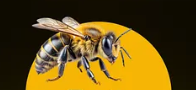
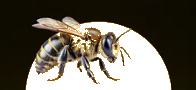
Update shop URL to root and remove yellow background from bee image

Changed region(s): [[0.1224, 0.2444, 0.8878, 1.0], [0.2755, 0.3556, 0.3061, 0.4], [0.4286, 0.5556, 0.4592, 0.5778]]

diff --git a/src/app/remedy/[id]/page.tsx b/src/app/remedy/[id]/page.tsx
@@ -7,7 +7,7 @@ import * as motion from "framer-motion/client";
 // Helper to determine shop URL for each honey type
 function getShopUrl(): string {
   // All products now go to the main product list page
-  return "https://www.beecrafthoney.com/product/Honey/1/3/101";
+  return "https://www.beecrafthoney.com/";
 }
 
 export default async function RemedyPage({ params }: { params: Promise<{ id: string }> }) {

diff --git a/public/sw.js b/public/sw.js
@@ -1,0 +1,1 @@
+if(!self.define){let e,s={};const n=(n,a)=>(n=new URL(n+".js",a).href,s[n]||new Promise(s=>{if("document"in self){const e=document.createElement("script");e.src=n,e.onload=s,document.head.appendChild(e)}else e=n,importScripts(n),s()}).then(()=>{let e=s[n];if(!e)throw new Error(`Module ${n} didn’t register its module`);return e}));self.define=(a,c)=>{const i=e||("document"in self?document.currentScript.src:"")||location.href;if(s[i])return;let t={};const r=e=>n(e,i),f={module:{uri:i},exports:t,require:r};s[i]=Promise.all(a.map(e=>f[e]||r(e))).then(e=>(c(...e),t))}}define(["./workbox-f1770938"],function(e){"use strict";importScripts(),self.skipWaiting(),e.clientsClaim(),e.precacheAndRoute([{url:"/_next/static/RNZc1lnbg8043OrXONRQj/_buildManifest.js",revision:"5cbc058a1759df76befb4e6a5d84403c"},{url:"/_next/static/RNZc1lnbg8043OrXONRQj/_ssgManifest.js",revision:"b6652df95db52feb4daf4eca35380933"},{url:"/_next/static/chunks/4bd1b696-215e5051988c3dde.js",revision:"215e5051988c3dde"},{url:"/_next/static/chunks/788-d81cb98bc1841a9a.js",revision:"d81cb98bc1841a9a"},{url:"/_next/static/chunks/894-8e41cb170f9d3e2e.js",revision:"8e41cb170f9d3e2e"},{url:"/_next/static/chunks/899.1813981119fa1f8a.js",revision:"1813981119fa1f8a"},{url:"/_next/static/chunks/928-9c0429a285964912.js",revision:"9c0429a285964912"},{url:"/_next/static/chunks/966.1775eb621d8d3e09.js",revision:"1775eb621d8d3e09"},{url:"/_next/static/chunks/app/_global-error/page-e08c31fb3ce1d928.js",revision:"e08c31fb3ce1d928"},{url:"/_next/static/chunks/app/_not-found/page-06d3d522e64b9877.js",revision:"06d3d522e64b9877"},{url:"/_next/static/chunks/app/admin/login/page-744cf5deb7114fc8.js",revision:"744cf5deb7114fc8"},{url:"/_next/static/chunks/app/admin/page-e08c31fb3ce1d928.js",revision:"e08c31fb3ce1d928"},{url:"/_next/static/chunks/app/api/auth/login/route-e08c31fb3ce1d928.js",revision:"e08c31fb3ce1d928"},{url:"/_next/static/chunks/app/api/search/route-e08c31fb3ce1d928.js",revision:"e08c31fb3ce1d928"},{url:"/_next/static/chunks/app/layout-63a9f2cb07cfd57d.js",revision:"63a9f2cb07cfd57d"},{url:"/_next/static/chunks/app/page-7fbc832518981789.js",revision:"7fbc832518981789"},{url:"/_next/static/chunks/app/remedy/%5Bid%5D/page-40c4d60f20435210.js",revision:"40c4d60f20435210"},{url:"/_next/static/chunks/app/search/page-883b3ef9d2b97517.js",revision:"883b3ef9d2b97517"},{url:"/_next/static/chunks/framework-93cda6578f6c76ec.js",revision:"93cda6578f6c76ec"},{url:"/_next/static/chunks/main-302328ff3ffb288f.js",revision:"302328ff3ffb288f"},{url:"/_next/static/chunks/main-app-19292692243a0bd3.js",revision:"19292692243a0bd3"},{url:"/_next/static/chunks/next/dist/client/components/builtin/app-error-e08c31fb3ce1d928.js",revision:"e08c31fb3ce1d928"},{url:"/_next/static/chunks/next/dist/client/components/builtin/forbidden-e08c31fb3ce1d928.js",revision:"e08c31fb3ce1d928"},{url:"/_next/static/chunks/next/dist/client/components/builtin/global-error-fe80cbb6ec6f658b.js",revision:"fe80cbb6ec6f658b"},{url:"/_next/static/chunks/next/dist/client/components/builtin/not-found-e08c31fb3ce1d928.js",revision:"e08c31fb3ce1d928"},{url:"/_next/static/chunks/next/dist/client/components/builtin/unauthorized-e08c31fb3ce1d928.js",revision:"e08c31fb3ce1d928"},{url:"/_next/static/chunks/polyfills-42372ed130431b0a.js",revision:"846118c33b2c0e922d7b3a7676f81f6f"},{url:"/_next/static/chunks/webpack-b03a520808f74277.js",revision:"b03a520808f74277"},{url:"/_next/static/css/b70add2aad08c682.css",revision:"b70add2aad08c682"},{url:"/_next/static/media/19cfc7226ec3afaa-s.woff2",revision:"9dda5cfc9a46f256d0e131bb535e46f8"},{url:"/_next/static/media/21350d82a1f187e9-s.woff2",revision:"4e2553027f1d60eff32898367dd4d541"},{url:"/_next/static/media/28a2004cf8372660-s.woff2",revision:"a81e6c6c3493caf3463c36f633996e92"},{url:"/_next/static/media/47f136985ef5b5cb-s.woff2",revision:"62f762afb90d7743f6916ea0cce473af"},{url:"/_next/static/media/4ead58c4dcc3f285-s.woff2",revision:"774586d4bcb09cb42f38fc490d25b01b"},{url:"/_next/static/media/8e9860b6e62d6359-s.woff2",revision:"01ba6c2a184b8cba08b0d57167664d75"},{url:"/_next/static/media/ba9851c3c22cd980-s.woff2",revision:"9e494903d6b0ffec1a1e14d34427d44d"},{url:"/_next/static/media/c5fe6dc8356a8c31-s.woff2",revision:"027a89e9ab733a145db70f09b8a18b42"},{url:"/_next/static/media/df0a9ae256c0569c-s.woff2",revision:"d54db44de5ccb18886ece2fda72bdfe0"},{url:"/_next/static/media/e4af272ccee01ff0-s.p.woff2",revision:"65850a373e258f1c897a2b3d75eb74de"},{url:"/_next/static/media/eaead17c7dbfcd5d-s.p.woff2",revision:"6da252de0cbc8a69b5d5c2e0e3f67722"},{url:"/file.svg",revision:"d09f95206c3fa0bb9bd9fefabfd0ea71"},{url:"/globe.svg",revision:"2aaafa6a49b6563925fe440891e32717"},{url:"/honey_bg.png",revision:"646a70df491a2b8ff1fb2854f14474a8"},{url:"/honey_texture.png",revision:"f7d73cebdb70302ac6e4c39ac8e13749"},{url:"/icons/icon_white_192.png",revision:"4c3e1328bc88894e517a1297b9cb9f62"},{url:"/icons/icon_white_512.png",revision:"b48e6dd88f88faa7ecb37c54551aeb49"},{url:"/images/bee.png",revision:"cd77bab4f118b51677941d0fda7aaee8"},{url:"/images/bg_honey_museum.png",revision:"578b3f1601eba7e99e5838f5691c8553"},{url:"/images/honey_bottle_8k.png",revision:"83fc2273892b97b9e302dac6db1a15d8"},{url:"/images/logo_beecraft_white.png",revision:"eeb4c645fb1eb6eefb14d1cadcf7dc71"},{url:"/manifest.json",revision:"3f010b60184f8c40451a900a3f05ed9e"},{url:"/next.svg",revision:"8e061864f388b47f33a1c3780831193e"},{url:"/vercel.svg",revision:"c0af2f507b369b085b35ef4bbe3bcf1e"},{url:"/window.svg",revision:"a2760511c65806022ad20adf74370ff3"}],{ignoreURLParametersMatching:[/^utm_/,/^fbclid$/]}),e.cleanupOutdatedCaches(),e.registerRoute("/",new e.NetworkFirst({cacheName:"start-url",plugins:[{cacheWillUpdate:async({response:e})=>e&&"opaqueredirect"===e.type?new Response(e.body,{status:200,statusText:"OK",headers:e.headers}):e}]}),"GET"),e.registerRoute(/^https:\/\/fonts\.(?:gstatic)\.com\/.*/i,new e.CacheFirst({cacheName:"google-fonts-webfonts",plugins:[new e.ExpirationPlugin({maxEntries:4,maxAgeSeconds:31536e3})]}),"GET"),e.registerRoute(/^https:\/\/fonts\.(?:googleapis)\.com\/.*/i,new e.StaleWhileRevalidate({cacheName:"google-fonts-stylesheets",plugins:[new e.ExpirationPlugin({maxEntries:4,maxAgeSeconds:604800})]}),"GET"),e.registerRoute(/\.(?:eot|otf|ttc|ttf|woff|woff2|font.css)$/i,new e.StaleWhileRevalidate({cacheName:"static-font-assets",plugins:[new e.ExpirationPlugin({maxEntries:4,maxAgeSeconds:604800})]}),"GET"),e.registerRoute(/\.(?:jpg|jpeg|gif|png|svg|ico|webp)$/i,new e.StaleWhileRevalidate({cacheName:"static-image-assets",plugins:[new e.ExpirationPlugin({maxEntries:64,maxAgeSeconds:2592e3})]}),"GET"),e.registerRoute(/\/_next\/static.+\.js$/i,new e.CacheFirst({cacheName:"next-static-js-assets",plugins:[new e.ExpirationPlugin({maxEntries:64,maxAgeSeconds:86400})]}),"GET"),e.registerRoute(/\/_next\/image\?url=.+$/i,new e.StaleWhileRevalidate({cacheName:"next-image",plugins:[new e.ExpirationPlugin({maxEntries:64,maxAgeSeconds:86400})]}),"GET"),e.registerRoute(/\.(?:mp3|wav|ogg)$/i,new e.CacheFirst({cacheName:"static-audio-assets",plugins:[new e.RangeRequestsPlugin,new e.ExpirationPlugin({maxEntries:32,maxAgeSeconds:86400})]}),"GET"),e.registerRoute(/\.(?:mp4|webm)$/i,new e.CacheFirst({cacheName:"static-video-assets",plugins:[new e.RangeRequestsPlugin,new e.ExpirationPlugin({maxEntries:32,maxAgeSeconds:86400})]}),"GET"),e.registerRoute(/\.(?:js)$/i,new e.StaleWhileRevalidate({cacheName:"static-js-assets",plugins:[new e.ExpirationPlugin({maxEntries:48,maxAgeSeconds:86400})]}),"GET"),e.registerRoute(/\.(?:css|less)$/i,new e.StaleWhileRevalidate({cacheName:"static-style-assets",plugins:[new e.ExpirationPlugin({maxEntries:32,maxAgeSeconds:86400})]}),"GET"),e.registerRoute(/\/_next\/data\/.+\/.+\.json$/i,new e.StaleWhileRevalidate({cacheName:"next-data",plugins:[new e.ExpirationPlugin({maxEntries:32,maxAgeSeconds:86400})]}),"GET"),e.registerRoute(/\.(?:json|xml|csv)$/i,new e.NetworkFirst({cacheName:"static-data-assets",plugins:[new e.ExpirationPlugin({maxEntries:32,maxAgeSeconds:86400})]}),"GET"),e.registerRoute(({sameOrigin:e,url:{pathname:s}})=>!(!e||s.startsWith("/api/auth/callback")||!s.startsWith("/api/")),new e.NetworkFirst({cacheName:"apis",networkTimeoutSeconds:10,plugins:[new e.ExpirationPlugin({maxEntries:16,maxAgeSeconds:86400})]}),"GET"),e.registerRoute(({request:e,url:{pathname:s},sameOrigin:n})=>"1"===e.headers.get("RSC")&&"1"===e.headers.get("Next-Router-Prefetch")&&n&&!s.startsWith("/api/"),new e.NetworkFirst({cacheName:"pages-rsc-prefetch",plugins:[new e.ExpirationPlugin({maxEntries:32,maxAgeSeconds:86400})]}),"GET"),e.registerRoute(({request:e,url:{pathname:s},sameOrigin:n})=>"1"===e.headers.get("RSC")&&n&&!s.startsWith("/api/"),new e.NetworkFirst({cacheName:"pages-rsc",plugins:[new e.ExpirationPlugin({maxEntries:32,maxAgeSeconds:86400})]}),"GET"),e.registerRoute(({url:{pathname:e},sameOrigin:s})=>s&&!e.startsWith("/api/"),new e.NetworkFirst({cacheName:"pages",plugins:[new e.ExpirationPlugin({maxEntries:32,maxAgeSeconds:86400})]}),"GET"),e.registerRoute(({sameOrigin:e})=>!e,new e.NetworkFirst({cacheName:"cross-origin",networkTimeoutSeconds:10,plugins:[new e.ExpirationPlugin({maxEntries:32,maxAgeSeconds:3600})]}),"GET")});

diff --git a/public/workbox-f1770938.js b/public/workbox-f1770938.js
@@ -1,0 +1,1 @@
+define(["exports"],function(t){"use strict";try{self["workbox:core:7.0.0"]&&_()}catch(t){}const e=(t,...e)=>{let s=t;return e.length>0&&(s+=` :: ${JSON.stringify(e)}`),s};class s extends Error{constructor(t,s){super(e(t,s)),this.name=t,this.details=s}}try{self["workbox:routing:7.0.0"]&&_()}catch(t){}const n=t=>t&&"object"==typeof t?t:{handle:t};class r{constructor(t,e,s="GET"){this.handler=n(e),this.match=t,this.method=s}setCatchHandler(t){this.catchHandler=n(t)}}class i extends r{constructor(t,e,s){super(({url:e})=>{const s=t.exec(e.href);if(s&&(e.origin===location.origin||0===s.index))return s.slice(1)},e,s)}}class a{constructor(){this.t=new Map,this.i=new Map}get routes(){return this.t}addFetchListener(){self.addEventListener("fetch",t=>{const{request:e}=t,s=this.handleRequest({request:e,event:t});s&&t.respondWith(s)})}addCacheListener(){self.addEventListener("message",t=>{if(t.data&&"CACHE_URLS"===t.data.type){const{payload:e}=t.data,s=Promise.all(e.urlsToCache.map(e=>{"string"==typeof e&&(e=[e]);const s=new Request(...e);return this.handleRequest({request:s,event:t})}));t.waitUntil(s),t.ports&&t.ports[0]&&s.then(()=>t.ports[0].postMessage(!0))}})}handleRequest({request:t,event:e}){const s=new URL(t.url,location.href);if(!s.protocol.startsWith("http"))return;const n=s.origin===location.origin,{params:r,route:i}=this.findMatchingRoute({event:e,request:t,sameOrigin:n,url:s});let a=i&&i.handler;const o=t.method;if(!a&&this.i.has(o)&&(a=this.i.get(o)),!a)return;let c;try{c=a.handle({url:s,request:t,event:e,params:r})}catch(t){c=Promise.reject(t)}const h=i&&i.catchHandler;return c instanceof Promise&&(this.o||h)&&(c=c.catch(async n=>{if(h)try{return await h.handle({url:s,request:t,event:e,params:r})}catch(t){t instanceof Error&&(n=t)}if(this.o)return this.o.handle({url:s,request:t,event:e});throw n})),c}findMatchingRoute({url:t,sameOrigin:e,request:s,event:n}){const r=this.t.get(s.method)||[];for(const i of r){let r;const a=i.match({url:t,sameOrigin:e,request:s,event:n});if(a)return r=a,(Array.isArray(r)&&0===r.length||a.constructor===Object&&0===Object.keys(a).length||"boolean"==typeof a)&&(r=void 0),{route:i,params:r}}return{}}setDefaultHandler(t,e="GET"){this.i.set(e,n(t))}setCatchHandler(t){this.o=n(t)}registerRoute(t){this.t.has(t.method)||this.t.set(t.method,[]),this.t.get(t.method).push(t)}unregisterRoute(t){if(!this.t.has(t.method))throw new s("unregister-route-but-not-found-with-method",{method:t.method});const e=this.t.get(t.method).indexOf(t);if(!(e>-1))throw new s("unregister-route-route-not-registered");this.t.get(t.method).splice(e,1)}}let o;const c=()=>(o||(o=new a,o.addFetchListener(),o.addCacheListener()),o);function h(t,e,n){let a;if("string"==typeof t){const s=new URL(t,location.href);a=new r(({url:t})=>t.href===s.href,e,n)}else if(t instanceof RegExp)a=new i(t,e,n);else if("function"==typeof t)a=new r(t,e,n);else{if(!(t instanceof r))throw new s("unsupported-route-type",{moduleName:"workbox-routing",funcName:"registerRoute",paramName:"capture"});a=t}return c().registerRoute(a),a}try{self["workbox:strategies:7.0.0"]&&_()}catch(t){}const u={cacheWillUpdate:async({response:t})=>200===t.status||0===t.status?t:null},l={googleAnalytics:"googleAnalytics",precache:"precache-v2",prefix:"workbox",runtime:"runtime",suffix:"undefined"!=typeof registration?registration.scope:""},f=t=>[l.prefix,t,l.suffix].filter(t=>t&&t.length>0).join("-"),w=t=>t||f(l.precache),d=t=>t||f(l.runtime);function p(t,e){const s=new URL(t);for(const t of e)s.searchParams.delete(t);return s.href}class y{constructor(){this.promise=new Promise((t,e)=>{this.resolve=t,this.reject=e})}}const g=new Set;function m(t){return"string"==typeof t?new Request(t):t}class v{constructor(t,e){this.h={},Object.assign(this,e),this.event=e.event,this.u=t,this.l=new y,this.p=[],this.m=[...t.plugins],this.v=new Map;for(const t of this.m)this.v.set(t,{});this.event.waitUntil(this.l.promise)}async fetch(t){const{event:e}=this;let n=m(t);if("navigate"===n.mode&&e instanceof FetchEvent&&e.preloadResponse){const t=await e.preloadResponse;if(t)return t}const r=this.hasCallback("fetchDidFail")?n.clone():null;try{for(const t of this.iterateCallbacks("requestWillFetch"))n=await t({request:n.clone(),event:e})}catch(t){if(t instanceof Error)throw new s("plugin-error-request-will-fetch",{thrownErrorMessage:t.message})}const i=n.clone();try{let t;t=await fetch(n,"navigate"===n.mode?void 0:this.u.fetchOptions);for(const s of this.iterateCallbacks("fetchDidSucceed"))t=await s({event:e,request:i,response:t});return t}catch(t){throw r&&await this.runCallbacks("fetchDidFail",{error:t,event:e,originalRequest:r.clone(),request:i.clone()}),t}}async fetchAndCachePut(t){const e=await this.fetch(t),s=e.clone();return this.waitUntil(this.cachePut(t,s)),e}async cacheMatch(t){const e=m(t);let s;const{cacheName:n,matchOptions:r}=this.u,i=await this.getCacheKey(e,"read"),a=Object.assign(Object.assign({},r),{cacheName:n});s=await caches.match(i,a);for(const t of this.iterateCallbacks("cachedResponseWillBeUsed"))s=await t({cacheName:n,matchOptions:r,cachedResponse:s,request:i,event:this.event})||void 0;return s}async cachePut(t,e){const n=m(t);var r;await(r=0,new Promise(t=>setTimeout(t,r)));const i=await this.getCacheKey(n,"write");if(!e)throw new s("cache-put-with-no-response",{url:(a=i.url,new URL(String(a),location.href).href.replace(new RegExp(`^${location.origin}`),""))});var a;const o=await this.R(e);if(!o)return!1;const{cacheName:c,matchOptions:h}=this.u,u=await self.caches.open(c),l=this.hasCallback("cacheDidUpdate"),f=l?await async function(t,e,s,n){const r=p(e.url,s);if(e.url===r)return t.match(e,n);const i=Object.assign(Object.assign({},n),{ignoreSearch:!0}),a=await t.keys(e,i);for(const e of a)if(r===p(e.url,s))return t.match(e,n)}(u,i.clone(),["__WB_REVISION__"],h):null;try{await u.put(i,l?o.clone():o)}catch(t){if(t instanceof Error)throw"QuotaExceededError"===t.name&&await async function(){for(const t of g)await t()}(),t}for(const t of this.iterateCallbacks("cacheDidUpdate"))await t({cacheName:c,oldResponse:f,newResponse:o.clone(),request:i,event:this.event});return!0}async getCacheKey(t,e){const s=`${t.url} | ${e}`;if(!this.h[s]){let n=t;for(const t of this.iterateCallbacks("cacheKeyWillBeUsed"))n=m(await t({mode:e,request:n,event:this.event,params:this.params}));this.h[s]=n}return this.h[s]}hasCallback(t){for(const e of this.u.plugins)if(t in e)return!0;return!1}async runCallbacks(t,e){for(const s of this.iterateCallbacks(t))await s(e)}*iterateCallbacks(t){for(const e of this.u.plugins)if("function"==typeof e[t]){const s=this.v.get(e),n=n=>{const r=Object.assign(Object.assign({},n),{state:s});return e[t](r)};yield n}}waitUntil(t){return this.p.push(t),t}async doneWaiting(){let t;for(;t=this.p.shift();)await t}destroy(){this.l.resolve(null)}async R(t){let e=t,s=!1;for(const t of this.iterateCallbacks("cacheWillUpdate"))if(e=await t({request:this.request,response:e,event:this.event})||void 0,s=!0,!e)break;return s||e&&200!==e.status&&(e=void 0),e}}class R{constructor(t={}){this.cacheName=d(t.cacheName),this.plugins=t.plugins||[],this.fetchOptions=t.fetchOptions,this.matchOptions=t.matchOptions}handle(t){const[e]=this.handleAll(t);return e}handleAll(t){t instanceof FetchEvent&&(t={event:t,request:t.request});const e=t.event,s="string"==typeof t.request?new Request(t.request):t.request,n="params"in t?t.params:void 0,r=new v(this,{event:e,request:s,params:n}),i=this.q(r,s,e);return[i,this.D(i,r,s,e)]}async q(t,e,n){let r;await t.runCallbacks("handlerWillStart",{event:n,request:e});try{if(r=await this.U(e,t),!r||"error"===r.type)throw new s("no-response",{url:e.url})}catch(s){if(s instanceof Error)for(const i of t.iterateCallbacks("handlerDidError"))if(r=await i({error:s,event:n,request:e}),r)break;if(!r)throw s}for(const s of t.iterateCallbacks("handlerWillRespond"))r=await s({event:n,request:e,response:r});return r}async D(t,e,s,n){let r,i;try{r=await t}catch(i){}try{await e.runCallbacks("handlerDidRespond",{event:n,request:s,response:r}),await e.doneWaiting()}catch(t){t instanceof Error&&(i=t)}if(await e.runCallbacks("handlerDidComplete",{event:n,request:s,response:r,error:i}),e.destroy(),i)throw i}}function b(t){t.then(()=>{})}function q(){return q=Object.assign?Object.assign.bind():function(t){for(var e=1;e<arguments.length;e++){var s=arguments[e];for(var n in s)({}).hasOwnProperty.call(s,n)&&(t[n]=s[n])}return t},q.apply(null,arguments)}let D,U;const x=new WeakMap,L=new WeakMap,I=new WeakMap,C=new WeakMap,E=new WeakMap;let N={get(t,e,s){if(t instanceof IDBTransaction){if("done"===e)return L.get(t);if("objectStoreNames"===e)return t.objectStoreNames||I.get(t);if("store"===e)return s.objectStoreNames[1]?void 0:s.objectStore(s.objectStoreNames[0])}return k(t[e])},set:(t,e,s)=>(t[e]=s,!0),has:(t,e)=>t instanceof IDBTransaction&&("done"===e||"store"===e)||e in t};function O(t){return t!==IDBDatabase.prototype.transaction||"objectStoreNames"in IDBTransaction.prototype?(U||(U=[IDBCursor.prototype.advance,IDBCursor.prototype.continue,IDBCursor.prototype.continuePrimaryKey])).includes(t)?function(...e){return t.apply(B(this),e),k(x.get(this))}:function(...e){return k(t.apply(B(this),e))}:function(e,...s){const n=t.call(B(this),e,...s);return I.set(n,e.sort?e.sort():[e]),k(n)}}function T(t){return"function"==typeof t?O(t):(t instanceof IDBTransaction&&function(t){if(L.has(t))return;const e=new Promise((e,s)=>{const n=()=>{t.removeEventListener("complete",r),t.removeEventListener("error",i),t.removeEventListener("abort",i)},r=()=>{e(),n()},i=()=>{s(t.error||new DOMException("AbortError","AbortError")),n()};t.addEventListener("complete",r),t.addEventListener("error",i),t.addEventListener("abort",i)});L.set(t,e)}(t),e=t,(D||(D=[IDBDatabase,IDBObjectStore,IDBIndex,IDBCursor,IDBTransaction])).some(t=>e instanceof t)?new Proxy(t,N):t);var e}function k(t){if(t instanceof IDBRequest)return function(t){const e=new Promise((e,s)=>{const n=()=>{t.removeEventListener("success",r),t.removeEventListener("error",i)},r=()=>{e(k(t.result)),n()},i=()=>{s(t.error),n()};t.addEventListener("success",r),t.addEventListener("error",i)});return e.then(e=>{e instanceof IDBCursor&&x.set(e,t)}).catch(()=>{}),E.set(e,t),e}(t);if(C.has(t))return C.get(t);const e=T(t);return e!==t&&(C.set(t,e),E.set(e,t)),e}const B=t=>E.get(t);const P=["get","getKey","getAll","getAllKeys","count"],M=["put","add","delete","clear"],W=new Map;function j(t,e){if(!(t instanceof IDBDatabase)||e in t||"string"!=typeof e)return;if(W.get(e))return W.get(e);const s=e.replace(/FromIndex$/,""),n=e!==s,r=M.includes(s);if(!(s in(n?IDBIndex:IDBObjectStore).prototype)||!r&&!P.includes(s))return;const i=async function(t,...e){const i=this.transaction(t,r?"readwrite":"readonly");let a=i.store;return n&&(a=a.index(e.shift())),(await Promise.all([a[s](...e),r&&i.done]))[0]};return W.set(e,i),i}N=(t=>q({},t,{get:(e,s,n)=>j(e,s)||t.get(e,s,n),has:(e,s)=>!!j(e,s)||t.has(e,s)}))(N);try{self["workbox:expiration:7.0.0"]&&_()}catch(t){}const S="cache-entries",K=t=>{const e=new URL(t,location.href);return e.hash="",e.href};class A{constructor(t){this._=null,this.L=t}I(t){const e=t.createObjectStore(S,{keyPath:"id"});e.createIndex("cacheName","cacheName",{unique:!1}),e.createIndex("timestamp","timestamp",{unique:!1})}C(t){this.I(t),this.L&&function(t,{blocked:e}={}){const s=indexedDB.deleteDatabase(t);e&&s.addEventListener("blocked",t=>e(t.oldVersion,t)),k(s).then(()=>{})}(this.L)}async setTimestamp(t,e){const s={url:t=K(t),timestamp:e,cacheName:this.L,id:this.N(t)},n=(await this.getDb()).transaction(S,"readwrite",{durability:"relaxed"});await n.store.put(s),await n.done}async getTimestamp(t){const e=await this.getDb(),s=await e.get(S,this.N(t));return null==s?void 0:s.timestamp}async expireEntries(t,e){const s=await this.getDb();let n=await s.transaction(S).store.index("timestamp").openCursor(null,"prev");const r=[];let i=0;for(;n;){const s=n.value;s.cacheName===this.L&&(t&&s.timestamp<t||e&&i>=e?r.push(n.value):i++),n=await n.continue()}const a=[];for(const t of r)await s.delete(S,t.id),a.push(t.url);return a}N(t){return this.L+"|"+K(t)}async getDb(){return this._||(this._=await function(t,e,{blocked:s,upgrade:n,blocking:r,terminated:i}={}){const a=indexedDB.open(t,e),o=k(a);return n&&a.addEventListener("upgradeneeded",t=>{n(k(a.result),t.oldVersion,t.newVersion,k(a.transaction),t)}),s&&a.addEventListener("blocked",t=>s(t.oldVersion,t.newVersion,t)),o.then(t=>{i&&t.addEventListener("close",()=>i()),r&&t.addEventListener("versionchange",t=>r(t.oldVersion,t.newVersion,t))}).catch(()=>{}),o}("workbox-expiration",1,{upgrade:this.C.bind(this)})),this._}}class F{constructor(t,e={}){this.O=!1,this.T=!1,this.k=e.maxEntries,this.B=e.maxAgeSeconds,this.P=e.matchOptions,this.L=t,this.M=new A(t)}async expireEntries(){if(this.O)return void(this.T=!0);this.O=!0;const t=this.B?Date.now()-1e3*this.B:0,e=await this.M.expireEntries(t,this.k),s=await self.caches.open(this.L);for(const t of e)await s.delete(t,this.P);this.O=!1,this.T&&(this.T=!1,b(this.expireEntries()))}async updateTimestamp(t){await this.M.setTimestamp(t,Date.now())}async isURLExpired(t){if(this.B){const e=await this.M.getTimestamp(t),s=Date.now()-1e3*this.B;return void 0===e||e<s}return!1}async delete(){this.T=!1,await this.M.expireEntries(1/0)}}try{self["workbox:range-requests:7.0.0"]&&_()}catch(t){}async function H(t,e){try{if(206===e.status)return e;const n=t.headers.get("range");if(!n)throw new s("no-range-header");const r=function(t){const e=t.trim().toLowerCase();if(!e.startsWith("bytes="))throw new s("unit-must-be-bytes",{normalizedRangeHeader:e});if(e.includes(","))throw new s("single-range-only",{normalizedRangeHeader:e});const n=/(\d*)-(\d*)/.exec(e);if(!n||!n[1]&&!n[2])throw new s("invalid-range-values",{normalizedRangeHeader:e});return{start:""===n[1]?void 0:Number(n[1]),end:""===n[2]?void 0:Number(n[2])}}(n),i=await e.blob(),a=function(t,e,n){const r=t.size;if(n&&n>r||e&&e<0)throw new s("range-not-satisfiable",{size:r,end:n,start:e});let i,a;return void 0!==e&&void 0!==n?(i=e,a=n+1):void 0!==e&&void 0===n?(i=e,a=r):void 0!==n&&void 0===e&&(i=r-n,a=r),{start:i,end:a}}(i,r.start,r.end),o=i.slice(a.start,a.end),c=o.size,h=new Response(o,{status:206,statusText:"Partial Content",headers:e.headers});return h.headers.set("Content-Length",String(c)),h.headers.set("Content-Range",`bytes ${a.start}-${a.end-1}/${i.size}`),h}catch(t){return new Response("",{status:416,statusText:"Range Not Satisfiable"})}}function $(t,e){const s=e();return t.waitUntil(s),s}try{self["workbox:precaching:7.0.0"]&&_()}catch(t){}function z(t){if(!t)throw new s("add-to-cache-list-unexpected-type",{entry:t});if("string"==typeof t){const e=new URL(t,location.href);return{cacheKey:e.href,url:e.href}}const{revision:e,url:n}=t;if(!n)throw new s("add-to-cache-list-unexpected-type",{entry:t});if(!e){const t=new URL(n,location.href);return{cacheKey:t.href,url:t.href}}const r=new URL(n,location.href),i=new URL(n,location.href);return r.searchParams.set("__WB_REVISION__",e),{cacheKey:r.href,url:i.href}}class G{constructor(){this.updatedURLs=[],this.notUpdatedURLs=[],this.handlerWillStart=async({request:t,state:e})=>{e&&(e.originalRequest=t)},this.cachedResponseWillBeUsed=async({event:t,state:e,cachedResponse:s})=>{if("install"===t.type&&e&&e.originalRequest&&e.originalRequest instanceof Request){const t=e.originalRequest.url;s?this.notUpdatedURLs.push(t):this.updatedURLs.push(t)}return s}}}class V{constructor({precacheController:t}){this.cacheKeyWillBeUsed=async({request:t,params:e})=>{const s=(null==e?void 0:e.cacheKey)||this.W.getCacheKeyForURL(t.url);return s?new Request(s,{headers:t.headers}):t},this.W=t}}let J,Q;async function X(t,e){let n=null;if(t.url){n=new URL(t.url).origin}if(n!==self.location.origin)throw new s("cross-origin-copy-response",{origin:n});const r=t.clone(),i={headers:new Headers(r.headers),status:r.status,statusText:r.statusText},a=e?e(i):i,o=function(){if(void 0===J){const t=new Response("");if("body"in t)try{new Response(t.body),J=!0}catch(t){J=!1}J=!1}return J}()?r.body:await r.blob();return new Response(o,a)}class Y extends R{constructor(t={}){t.cacheName=w(t.cacheName),super(t),this.j=!1!==t.fallbackToNetwork,this.plugins.push(Y.copyRedirectedCacheableResponsesPlugin)}async U(t,e){const s=await e.cacheMatch(t);return s||(e.event&&"install"===e.event.type?await this.S(t,e):await this.K(t,e))}async K(t,e){let n;const r=e.params||{};if(!this.j)throw new s("missing-precache-entry",{cacheName:this.cacheName,url:t.url});{const s=r.integrity,i=t.integrity,a=!i||i===s;n=await e.fetch(new Request(t,{integrity:"no-cors"!==t.mode?i||s:void 0})),s&&a&&"no-cors"!==t.mode&&(this.A(),await e.cachePut(t,n.clone()))}return n}async S(t,e){this.A();const n=await e.fetch(t);if(!await e.cachePut(t,n.clone()))throw new s("bad-precaching-response",{url:t.url,status:n.status});return n}A(){let t=null,e=0;for(const[s,n]of this.plugins.entries())n!==Y.copyRedirectedCacheableResponsesPlugin&&(n===Y.defaultPrecacheCacheabilityPlugin&&(t=s),n.cacheWillUpdate&&e++);0===e?this.plugins.push(Y.defaultPrecacheCacheabilityPlugin):e>1&&null!==t&&this.plugins.splice(t,1)}}Y.defaultPrecacheCacheabilityPlugin={cacheWillUpdate:async({response:t})=>!t||t.status>=400?null:t},Y.copyRedirectedCacheableResponsesPlugin={cacheWillUpdate:async({response:t})=>t.redirected?await X(t):t};class Z{constructor({cacheName:t,plugins:e=[],fallbackToNetwork:s=!0}={}){this.F=new Map,this.H=new Map,this.$=new Map,this.u=new Y({cacheName:w(t),plugins:[...e,new V({precacheController:this})],fallbackToNetwork:s}),this.install=this.install.bind(this),this.activate=this.activate.bind(this)}get strategy(){return this.u}precache(t){this.addToCacheList(t),this.G||(self.addEventListener("install",this.install),self.addEventListener("activate",this.activate),this.G=!0)}addToCacheList(t){const e=[];for(const n of t){"string"==typeof n?e.push(n):n&&void 0===n.revision&&e.push(n.url);const{cacheKey:t,url:r}=z(n),i="string"!=typeof n&&n.revision?"reload":"default";if(this.F.has(r)&&this.F.get(r)!==t)throw new s("add-to-cache-list-conflicting-entries",{firstEntry:this.F.get(r),secondEntry:t});if("string"!=typeof n&&n.integrity){if(this.$.has(t)&&this.$.get(t)!==n.integrity)throw new s("add-to-cache-list-conflicting-integrities",{url:r});this.$.set(t,n.integrity)}if(this.F.set(r,t),this.H.set(r,i),e.length>0){const t=`Workbox is precaching URLs without revision info: ${e.join(", ")}\nThis is generally NOT safe. Learn more at https://bit.ly/wb-precache`;console.warn(t)}}}install(t){return $(t,async()=>{const e=new G;this.strategy.plugins.push(e);for(const[e,s]of this.F){const n=this.$.get(s),r=this.H.get(e),i=new Request(e,{integrity:n,cache:r,credentials:"same-origin"});await Promise.all(this.strategy.handleAll({params:{cacheKey:s},request:i,event:t}))}const{updatedURLs:s,notUpdatedURLs:n}=e;return{updatedURLs:s,notUpdatedURLs:n}})}activate(t){return $(t,async()=>{const t=await self.caches.open(this.strategy.cacheName),e=await t.keys(),s=new Set(this.F.values()),n=[];for(const r of e)s.has(r.url)||(await t.delete(r),n.push(r.url));return{deletedURLs:n}})}getURLsToCacheKeys(){return this.F}getCachedURLs(){return[...this.F.keys()]}getCacheKeyForURL(t){const e=new URL(t,location.href);return this.F.get(e.href)}getIntegrityForCacheKey(t){return this.$.get(t)}async matchPrecache(t){const e=t instanceof Request?t.url:t,s=this.getCacheKeyForURL(e);if(s){return(await self.caches.open(this.strategy.cacheName)).match(s)}}createHandlerBoundToURL(t){const e=this.getCacheKeyForURL(t);if(!e)throw new s("non-precached-url",{url:t});return s=>(s.request=new Request(t),s.params=Object.assign({cacheKey:e},s.params),this.strategy.handle(s))}}const tt=()=>(Q||(Q=new Z),Q);class et extends r{constructor(t,e){super(({request:s})=>{const n=t.getURLsToCacheKeys();for(const r of function*(t,{ignoreURLParametersMatching:e=[/^utm_/,/^fbclid$/],directoryIndex:s="index.html",cleanURLs:n=!0,urlManipulation:r}={}){const i=new URL(t,location.href);i.hash="",yield i.href;const a=function(t,e=[]){for(const s of[...t.searchParams.keys()])e.some(t=>t.test(s))&&t.searchParams.delete(s);return t}(i,e);if(yield a.href,s&&a.pathname.endsWith("/")){const t=new URL(a.href);t.pathname+=s,yield t.href}if(n){const t=new URL(a.href);t.pathname+=".html",yield t.href}if(r){const t=r({url:i});for(const e of t)yield e.href}}(s.url,e)){const e=n.get(r);if(e){return{cacheKey:e,integrity:t.getIntegrityForCacheKey(e)}}}},t.strategy)}}t.CacheFirst=class extends R{async U(t,e){let n,r=await e.cacheMatch(t);if(!r)try{r=await e.fetchAndCachePut(t)}catch(t){t instanceof Error&&(n=t)}if(!r)throw new s("no-response",{url:t.url,error:n});return r}},t.ExpirationPlugin=class{constructor(t={}){this.cachedResponseWillBeUsed=async({event:t,request:e,cacheName:s,cachedResponse:n})=>{if(!n)return null;const r=this.V(n),i=this.J(s);b(i.expireEntries());const a=i.updateTimestamp(e.url);if(t)try{t.waitUntil(a)}catch(t){}return r?n:null},this.cacheDidUpdate=async({cacheName:t,request:e})=>{const s=this.J(t);await s.updateTimestamp(e.url),await s.expireEntries()},this.X=t,this.B=t.maxAgeSeconds,this.Y=new Map,t.purgeOnQuotaError&&function(t){g.add(t)}(()=>this.deleteCacheAndMetadata())}J(t){if(t===d())throw new s("expire-custom-caches-only");let e=this.Y.get(t);return e||(e=new F(t,this.X),this.Y.set(t,e)),e}V(t){if(!this.B)return!0;const e=this.Z(t);if(null===e)return!0;return e>=Date.now()-1e3*this.B}Z(t){if(!t.headers.has("date"))return null;const e=t.headers.get("date"),s=new Date(e).getTime();return isNaN(s)?null:s}async deleteCacheAndMetadata(){for(const[t,e]of this.Y)await self.caches.delete(t),await e.delete();this.Y=new Map}},t.NetworkFirst=class extends R{constructor(t={}){super(t),this.plugins.some(t=>"cacheWillUpdate"in t)||this.plugins.unshift(u),this.tt=t.networkTimeoutSeconds||0}async U(t,e){const n=[],r=[];let i;if(this.tt){const{id:s,promise:a}=this.et({request:t,logs:n,handler:e});i=s,r.push(a)}const a=this.st({timeoutId:i,request:t,logs:n,handler:e});r.push(a);const o=await e.waitUntil((async()=>await e.waitUntil(Promise.race(r))||await a)());if(!o)throw new s("no-response",{url:t.url});return o}et({request:t,logs:e,handler:s}){let n;return{promise:new Promise(e=>{n=setTimeout(async()=>{e(await s.cacheMatch(t))},1e3*this.tt)}),id:n}}async st({timeoutId:t,request:e,logs:s,handler:n}){let r,i;try{i=await n.fetchAndCachePut(e)}catch(t){t instanceof Error&&(r=t)}return t&&clearTimeout(t),!r&&i||(i=await n.cacheMatch(e)),i}},t.RangeRequestsPlugin=class{constructor(){this.cachedResponseWillBeUsed=async({request:t,cachedResponse:e})=>e&&t.headers.has("range")?await H(t,e):e}},t.StaleWhileRevalidate=class extends R{constructor(t={}){super(t),this.plugins.some(t=>"cacheWillUpdate"in t)||this.plugins.unshift(u)}async U(t,e){const n=e.fetchAndCachePut(t).catch(()=>{});e.waitUntil(n);let r,i=await e.cacheMatch(t);if(i);else try{i=await n}catch(t){t instanceof Error&&(r=t)}if(!i)throw new s("no-response",{url:t.url,error:r});return i}},t.cleanupOutdatedCaches=function(){self.addEventListener("activate",t=>{const e=w();t.waitUntil((async(t,e="-precache-")=>{const s=(await self.caches.keys()).filter(s=>s.includes(e)&&s.includes(self.registration.scope)&&s!==t);return await Promise.all(s.map(t=>self.caches.delete(t))),s})(e).then(t=>{}))})},t.clientsClaim=function(){self.addEventListener("activate",()=>self.clients.claim())},t.precacheAndRoute=function(t,e){!function(t){tt().precache(t)}(t),function(t){const e=tt();h(new et(e,t))}(e)},t.registerRoute=h});